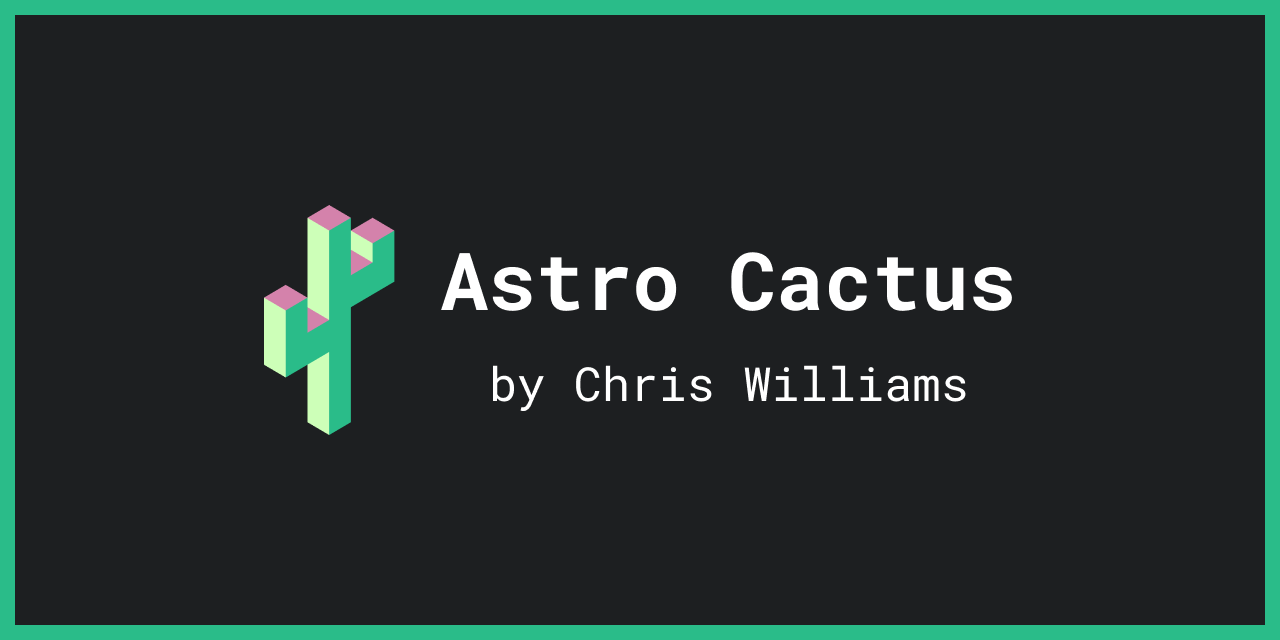
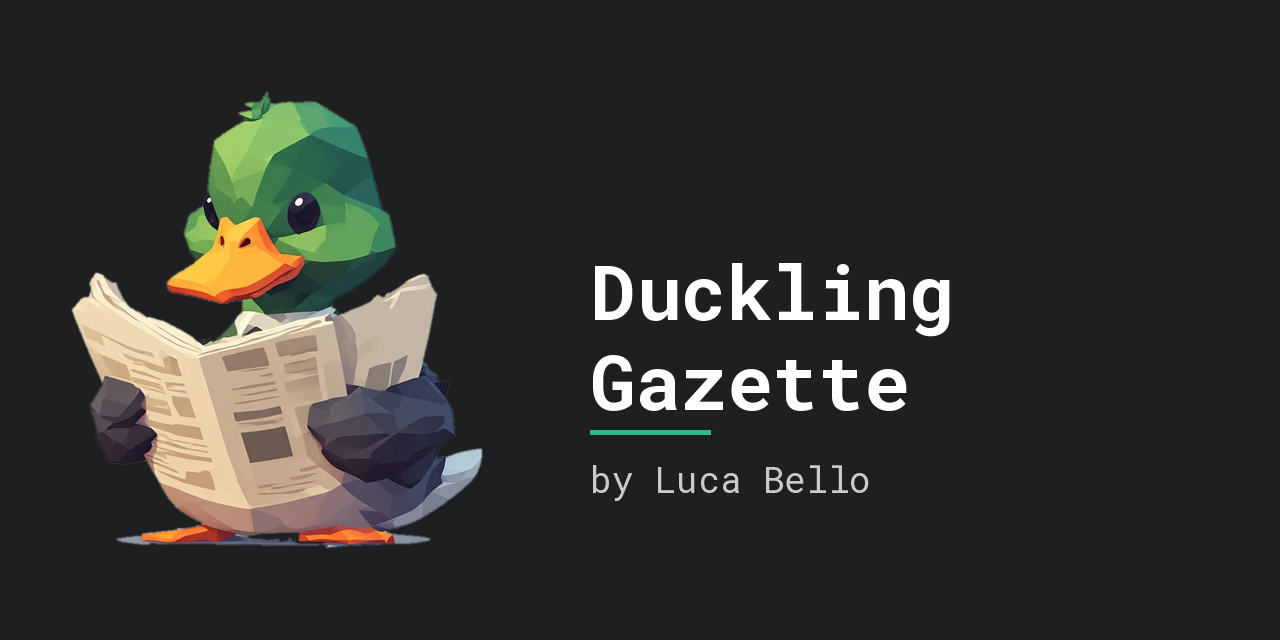
feat: migrate site to Astro Cactus and group justfile recipes

Changed region(s): [[0.0, 0.0, 1.0, 1.0], [0.375, 0.5312, 0.75, 0.6875], [0.4688, 0.7188, 0.6875, 0.7812]]

diff --git a/src/site.config.ts b/src/site.config.ts
@@ -10,7 +10,7 @@ export const siteConfig: SiteConfig = {
 		- The link value found in src/components/layout/Header.astro L:35
 		- In the footer found in src/components/layout/Footer.astro L:12
 	*/
-	title: "Duckling Dev 🦆",
+	title: "Duckling Gazette",
 	// Used as both a meta property (src/components/BaseHead.astro L:31 + L:49) & the generated satori png (src/pages/og-image/[slug].png.ts)
 	author: "Luca Bello",
 	// Used as the default description meta property and webmanifest description
@@ -40,6 +40,10 @@ export const menuLinks: { path: string; title: string }[] = [
 	{
 		path: "/cv/",
 		title: "CV",
+	},
+	{
+		path: "/resume/",
+		title: "Resume",
 	},
 	{
 		path: "/posts/",
